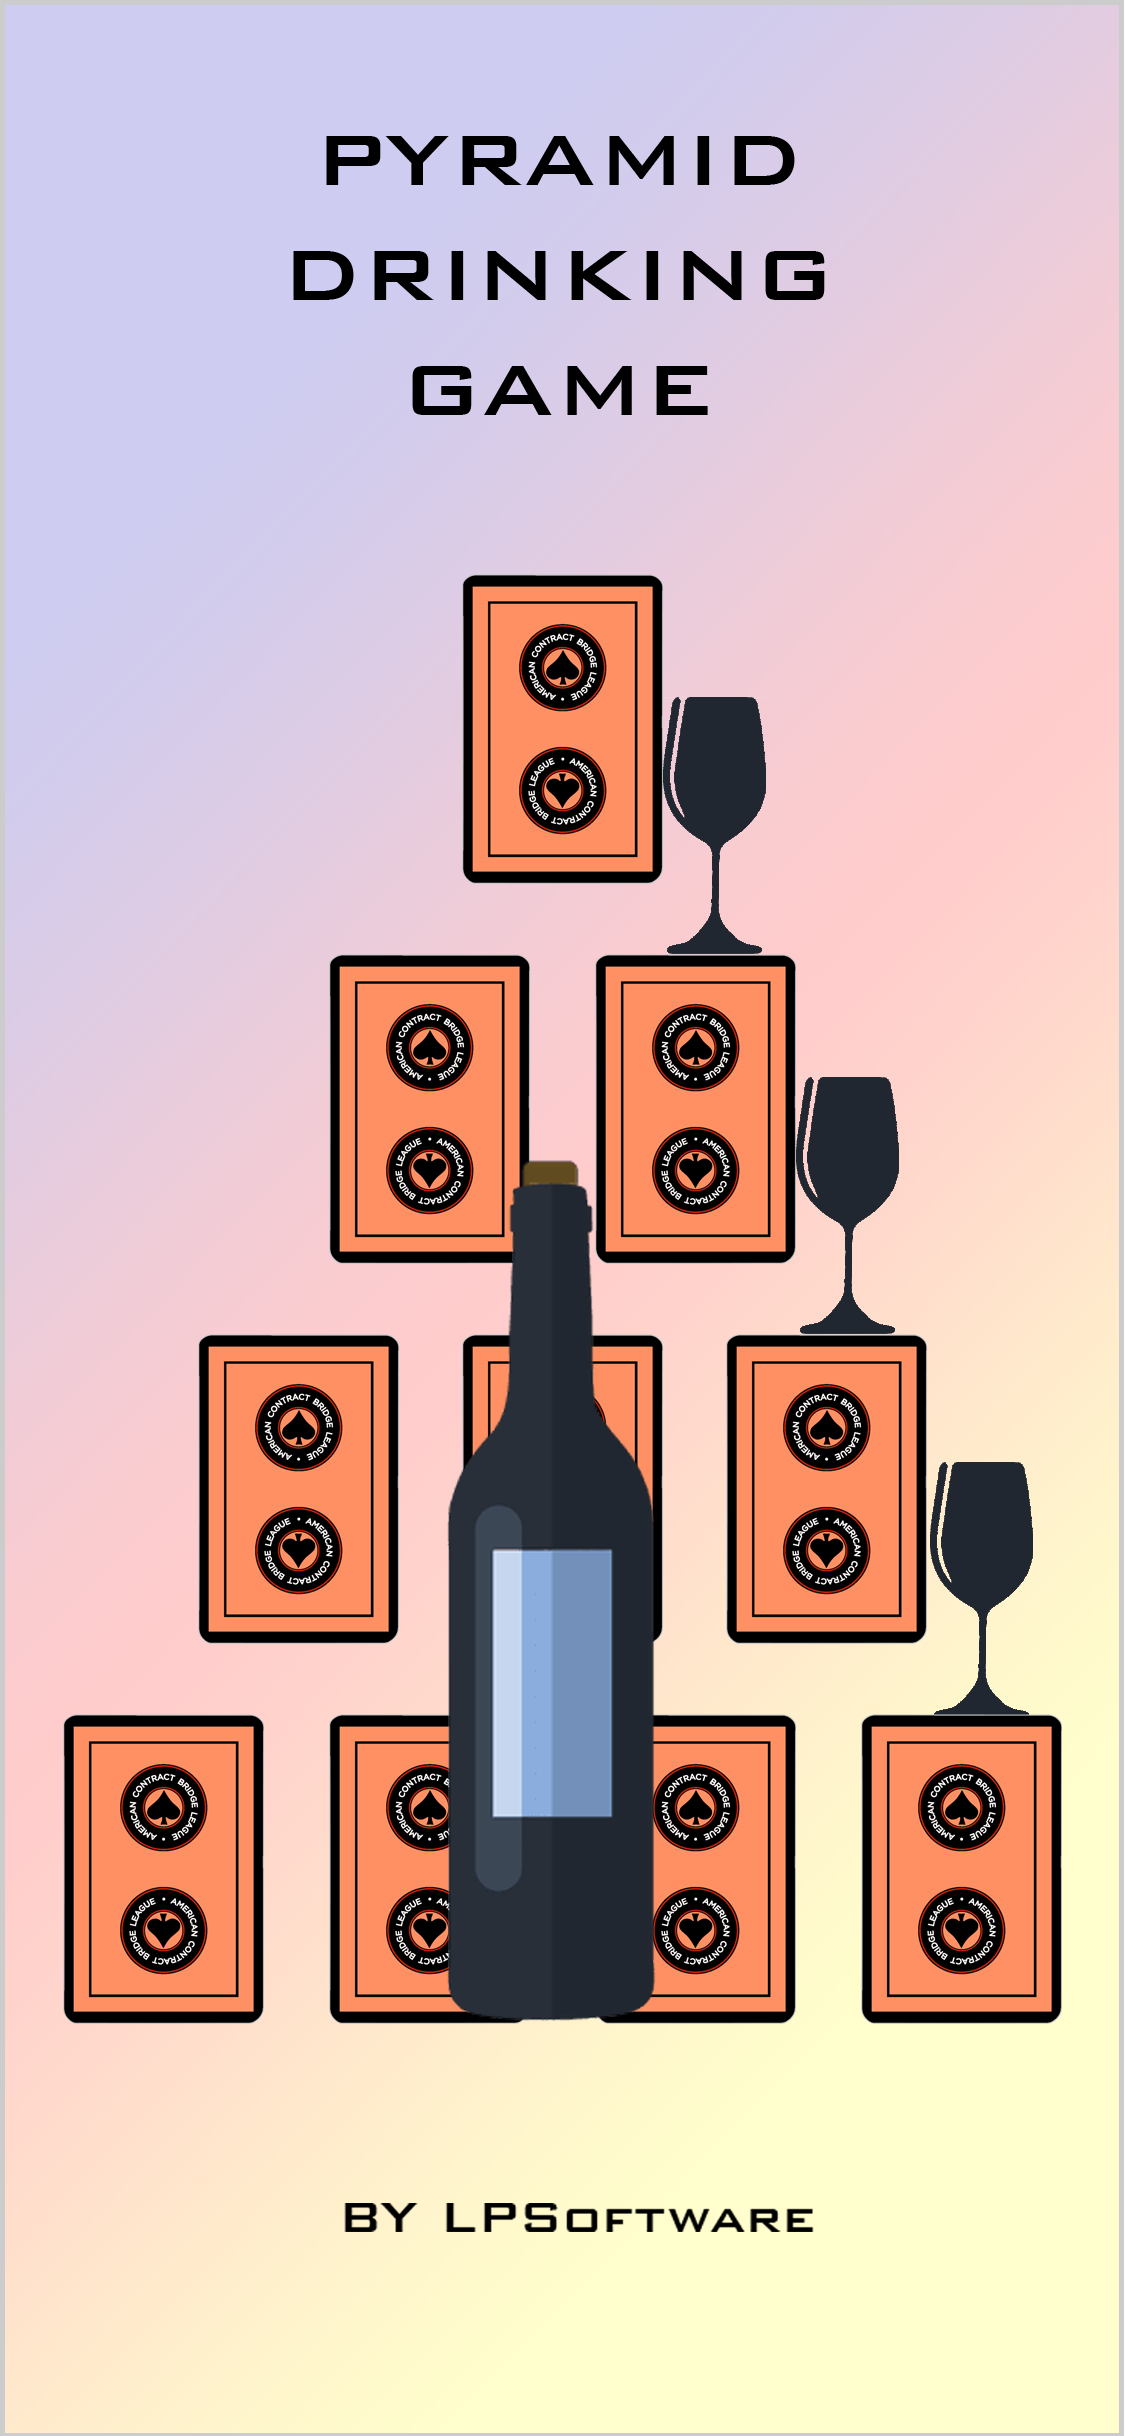
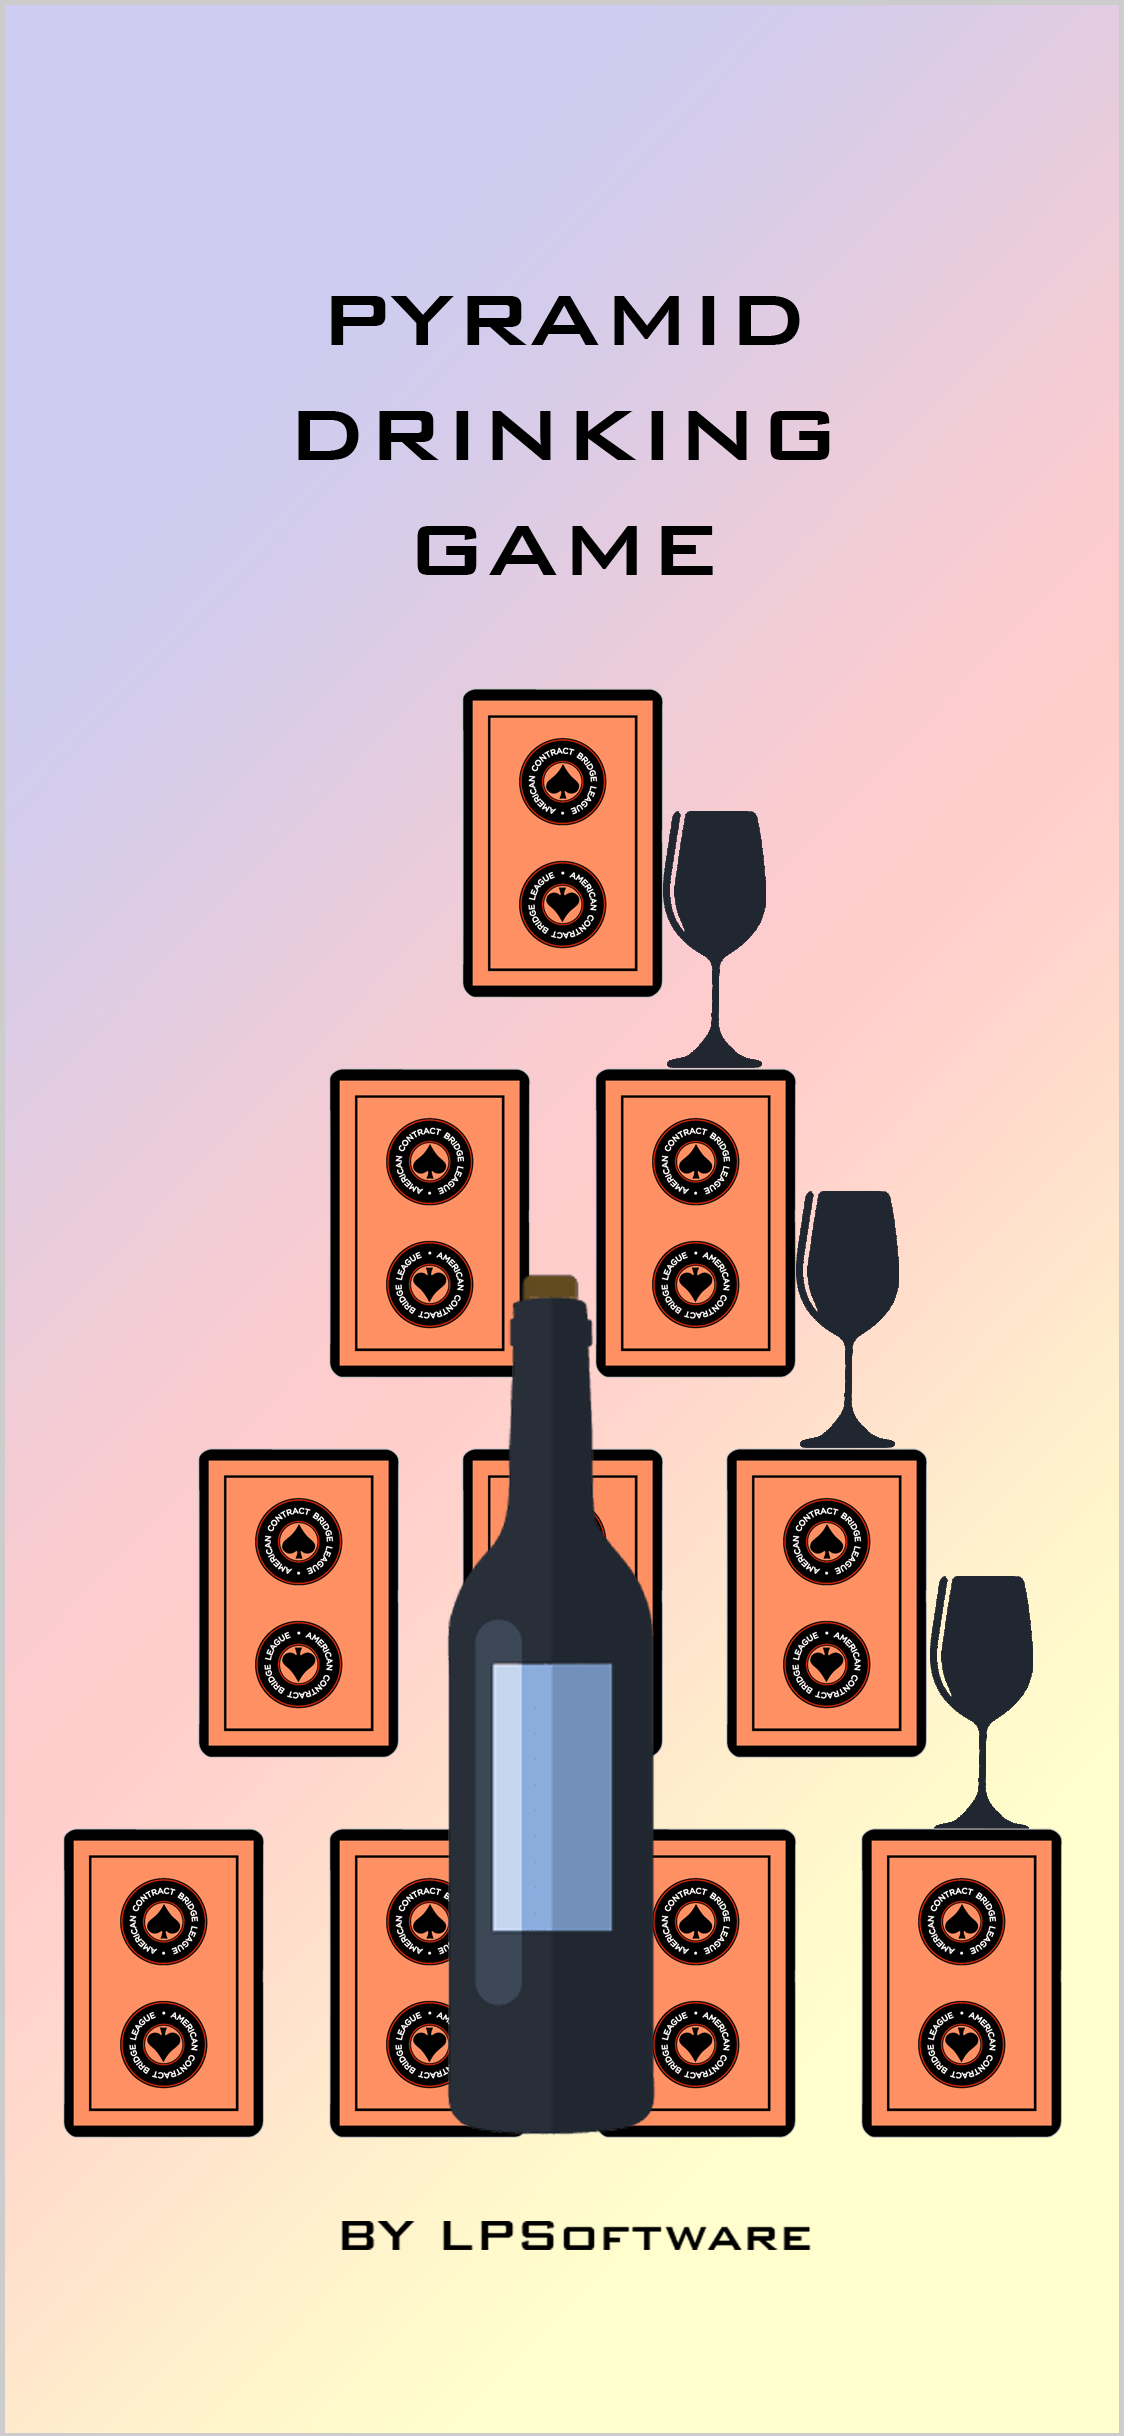
Game view redesigned

Changed region(s): [[0.0311, 0.0312, 0.9644, 0.936]]

diff --git a/pyramid/src/Screens/Game.js b/pyramid/src/Screens/Game.js
@@ -1,6 +1,8 @@
 import React, { Component } from 'react';
-import { Image, Modal, StyleSheet, ScrollView , View, Button, Text, TouchableOpacity } from 'react-native';
+import { Image, ImageBackground, Modal, StyleSheet, ScrollView , View, Button, Text, TouchableOpacity } from 'react-native';
 import { Table, Row } from 'react-native-table-component';
+import background from '../../assets/Background.png';
+import BackgroundCard from '../../assets/BackgroundCard.png';
 
 export default class Game extends Component{
   constructor(props){
@@ -23,6 +25,7 @@ export default class Game extends Component{
       playedButtons: [],
       modalCard: false,
       textModal: "",
+      userModal: "",
       activeCard: ""
     }
   }
@@ -221,24 +224,28 @@ export default class Game extends Component{
       if (type_card) {
         if (nDrinks === 0) {
           this.setState({
-            textModal: "Beben "+ (nDrinks + 1) + " trago: " + drink_users.join(", "),
+            textModal: "BEBEN "+ (nDrinks + 1) + " TRAGO:",
+            userModal: drink_users.join(", "),
             modalCard: true
           })
         } else {
           this.setState({
-            textModal: "Beben "+ (nDrinks + 1) + " tragos: " + drink_users.join(", "),
+            textModal: "BEBEN "+ (nDrinks + 1) + " TRAGOS:",
+            userModal: drink_users.join(", "),
             modalCard: true
           })
         }
       }else{
         if (nDrinks === 0) {
           this.setState({
-            textModal: "Regalan "+ (nDrinks + 1) + " trago: " + drink_users.join(", "),
+            textModal: "REGALAN "+ (nDrinks + 1) + " TRAGO:",
+            userModal: drink_users.join(", "),
             modalCard: true
           })
         } else {
           this.setState({
-            textModal: "Regalan "+ (nDrinks + 1) + " tragos: " + drink_users.join(", "),
+            textModal: "REGALAN "+ (nDrinks + 1) + " TRAGOS:",
+            userModal: drink_users.join(", "),
             modalCard: true
           })
         }
@@ -246,6 +253,7 @@ export default class Game extends Component{
     }else{
       this.setState({
         textModal: "Nadie Bebe",
+        userModal: "",
         modalCard: true
       })
     }
@@ -302,17 +310,24 @@ export default class Game extends Component{
     }
     return(
       <View style={styles.containerTable}>
+        <ImageBackground source={background} resizeMethod="resize" style={styles.image}>
         <ScrollView horizontal={true}>
           <Modal            
             animationType = {"fade"}  
-            transparent = {false}  
+            transparent = {true}  
             visible = {this.state.modalCard}  
           >  
             <View style = {styles.modal}>  
-              <Image fadeDuration={3} source={this.cardImage} style={{width:210, height:330}} />
-              <Text style = {{...styles.textModal, bottom: 10}}>{this.state.textModal}</Text>  
-              <Button title="Cerrar" onPress = {() => {  
-                this.setState({ modalCard:!this.state.modalCard})}}/>  
+            <ImageBackground source={BackgroundCard} resizeMethod="resize" style={styles.image_modal}>
+              <Text style = {{...styles.textModal, top: -30, left: -15, fontSize: 30}}>{this.state.textModal}</Text>
+              <Text style = {{...styles.textModal, top: -30}}>{this.state.userModal}</Text>
+              <Image fadeDuration={3} source={this.cardImage} style={{width:210, height:330, top: -10}} />
+              <TouchableOpacity
+                onPress = {() => {this.setState({ modalCard:!this.state.modalCard})}}
+                style={styles.buttonClose}>
+                <Text style={{ fontSize: 20, color: '#474442' }}>CERRAR</Text>
+              </TouchableOpacity>
+            </ImageBackground>
             </View>  
           </Modal>
           <View style={{top: 100}}>
@@ -333,9 +348,10 @@ export default class Game extends Component{
         </ScrollView>
         <TouchableOpacity
           onPress={() => this.props.navigation.navigate('Statistics', {users: this.state.users})}
-          style={{ backgroundColor: '#d1625a', padding: 10, bottom: 40, borderRadius: 5 }}>
-          <Text style={{ fontSize: 20, color: '#fff' }}>¿Quien bebió más?</Text>
+          style={styles.buttonSubmit}>
+          <Text style={{ fontSize: 20, color: '#474442' }}>¿Quien bebió más?</Text>
         </TouchableOpacity>
+        </ImageBackground>
       </View>
     );
   }
@@ -344,15 +360,12 @@ export default class Game extends Component{
 const styles = StyleSheet.create({
   container: {
     flex: 1,
-    backgroundColor: '#fff',
-    alignItems: 'center',
-    justifyContent: 'center',
+    flexDirection: 'row',
   },
   containerTable: { 
     alignItems:"center",
     flex: 1,
-    padding: 16,
-    paddingTop: 30,
+    flexDirection: 'column',
     backgroundColor: '#fff',
   },
   text: {
@@ -371,19 +384,48 @@ const styles = StyleSheet.create({
   modal: {  
     justifyContent: 'space-around',  
     alignItems: 'center',   
-    backgroundColor : "#00BCD4",   
-    height: 600 ,  
-    width: '80%',  
-    borderRadius:20,  
+    height: 720 ,  
+    width: '90%',  
     borderWidth: 1,  
-    borderColor: '#fff',    
-    marginTop: 80,  
-    marginLeft: 40,  
+    borderColor: '#ff887f',    
+    marginTop: 35,  
+    marginLeft: 20,  
   },  
   textModal: {
-    fontSize: 30,
-    color: '#3f2949',  
+    fontSize: 25,
+    color: '#474442',  
     marginTop: 30,
     textAlign: 'center'
+  },
+  image: {
+    flex: 1,
+    resizeMode: "stretch",
+    justifyContent: "center",
+    alignItems: 'center', 
+    width: "120%",
+    height: "100%"
+  },
+  image_modal: {
+    flex: 1,
+    resizeMode: "stretch",
+    justifyContent: "center",
+    alignItems: 'center', 
+    width: "100%",
+    height: "100%"
+  },
+  buttonSubmit: {
+    marginTop: 30,
+    padding: 10,
+    alignSelf:"center",
+    borderColor: '#474442',
+    borderWidth: 2,
+    top: -150
+  },
+  buttonClose: {
+    padding: 5,
+    alignSelf:"center",
+    borderColor: '#474442',
+    borderWidth: 2,
+    top: 10
   }
 });

diff --git a/pyramid/src/Screens/Home.js b/pyramid/src/Screens/Home.js
@@ -8,7 +8,7 @@ export default class Home extends Component {
     return(
       <View style={styles.container}>
         <ImageBackground source={background} resizeMethod="resize" style={styles.image}>
-        <Text style={{color: '#474442', fontSize: 55, top: -20, left: -50}}>PIRÁMIDE</Text>
+        <Text style={{color: '#474442', fontSize: 50, top: -20, left: -55}}>PIRÁMIDE</Text>
         <TouchableOpacity
           onPress={() => this.props.navigation.navigate('Setup')}
           style={{ borderColor: '#474442' , padding: 15, borderWidth: 2, top: 20 }}>
